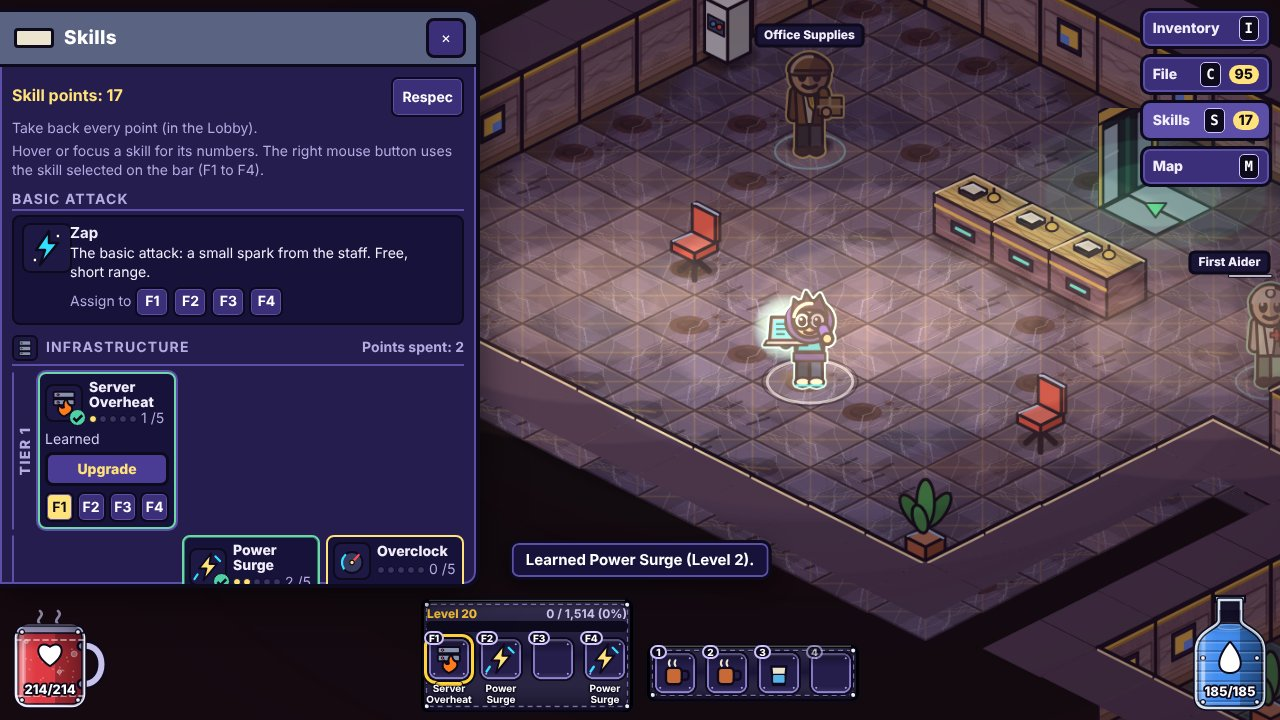
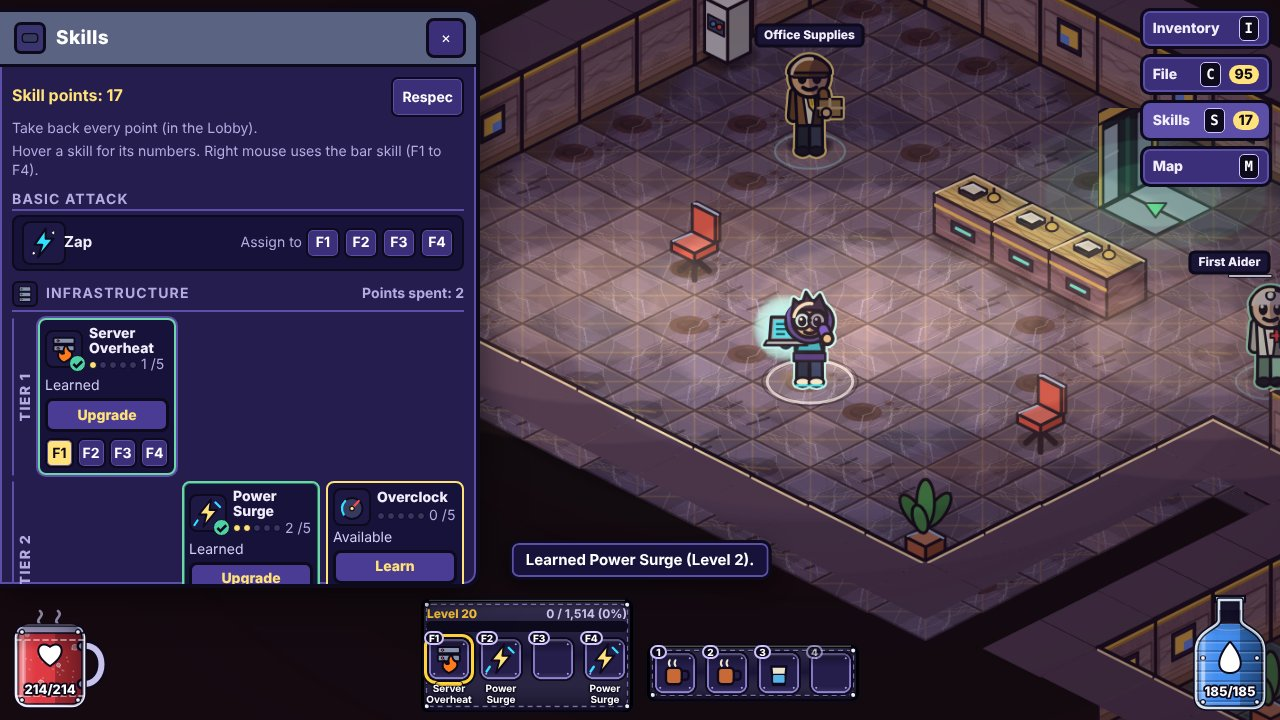
office-crawler: WORLD-FIX (G3) in-game fixes F1-F4, FM face, skill VFX, loot-plate perf
Claude-Session: https://claude.ai/code/session_015ZMPDA2f9SmuN7Nc91jqdv

diff --git a/test/render-g3.test.js b/test/render-g3.test.js
@@ -1,0 +1,84 @@
+// WORLD-FIX (round G3): loot tags keep off the hero and bodies and off each other (F1, F4), the loot layer reuses its records (CR-14),
+// and a nameplate leader line never runs through a body (F3). Pure: stubbed canvas, no pixels, no timing.
+import test from "node:test";
+import assert from "node:assert/strict";
+import { createFx } from "../src/render/fx.js";
+import { lineCrossesBody } from "../src/render/labels.js";
+import { palette } from "../src/render/styles/vector/palette.js";
+
+const ctx = () => new Proxy({}, { get: (_, k) => (k === "canvas" ? {} : k === "measureText" ? (t) => ({ width: String(t).length * 7 }) : k === "createLinearGradient" ? () => ({ addColorStop() {} }) : () => undefined), set: () => true });
+const withDom = (fn) => {
+  const d = globalThis.document, w = globalThis.window;
+  globalThis.document = { createElement: () => ({ width: 0, height: 0, getContext: () => ctx() }) };
+  globalThis.window = { devicePixelRatio: 1 };
+  try { return fn(); } finally { if (d === undefined) delete globalThis.document; else globalThis.document = d; if (w === undefined) delete globalThis.window; else globalThis.window = w; }
+};
+const hit = (a, b) => a.x < b.x + b.w && b.x < a.x + a.w && a.y < b.y + b.h && b.y < a.y + a.h;
+
+function scene() {
+  const style = { palette, dims: { "facilities-manager": { head: 66, shadowR: 17 }, "zombie-intern": { head: 50 } } };
+  const fx = createFx(style);
+  fx.heroType = "facilities-manager";
+  const cam = { w: 1280, h: 720, z: 1.8, ox: 640, oy: 380 - 21 * 16 * 1.8 };
+  fx.heroS = { x: 640, y: 380 };
+  const tiles = [[10, 10], [11, 10], [10, 11], [9, 10], [11, 11], [12, 10], [10, 12], [9, 9]];
+  const rar = ["unique", "rare", "rare", "magic", "magic", "rare", "unique", "magic"];
+  const groundItems = tiles.map(([x, y], i) => ({ id: "g" + i, tile: { x, y }, rarity: rar[i], label: ["Mandatory Reorg", "Padded Cardigan of the Hazmat Drill", "Alert Visor Cap of the Gym Rat", "Hard Hat of the Sprinkler", "Pink Slip", "Final Audit", "Offsite Quota", "Visor Cap of the Marathon"][i], border: "single" }));
+  const core = { player: { tile: { x: 10, y: 10 } }, groundItems };
+  fx.bodies = [{ id: "m1", type: "zombie-intern", sx: 700, sy: 360, dead: false, hid: false }, { id: "m2", type: "zombie-intern", sx: 560, sy: 400, dead: false, hid: false }];
+  const frame = () => { const g = ctx(); fx.drawLoot(g, cam, core, 1000); fx.drawLootPlates(g, cam, core, 1000); return fx.platesPlaced.map((r) => ({ x: r.x, y: r.y, w: r.w, h: r.h })); };
+  return { fx, cam, core, frame };
+}
+
+test("F1 / F4: loot tags never touch the hero's drawn body, an enemy body, or each other", () => withDom(() => {
+  const { fx, cam, frame } = scene();
+  const hero = fx.heroS, hh = (66 + 6) * cam.z, heroRect = { x: hero.x - 27 * cam.z, y: hero.y - hh, w: 54 * cam.z, h: hh + 5 * cam.z };
+  const rects = frame().slice(1);
+  assert.ok(rects.length >= 3, "several tags are placed in a pile of eight drops");
+  for (const r of rects) assert.ok(!hit(r, heroRect), `tag ${JSON.stringify(r)} covers the hero`);
+  for (let i = 0; i < rects.length; i++) for (let j = i + 1; j < rects.length; j++) {
+    const a = rects[i], b = rects[j], gx = Math.max(b.x - (a.x + a.w), a.x - (b.x + b.w)), gy = Math.max(b.y - (a.y + a.h), a.y - (b.y + b.h));
+    assert.ok(Math.max(gx, gy) >= 5, `tags ${i} and ${j} abut (gap ${Math.max(gx, gy)})`);
+  }
+}));
+
+test("F1: the hero keep-out follows the drawn hero position, not the logical tile", () => withDom(() => {
+  const { fx, cam, frame } = scene();
+  fx.heroS = { x: 760, y: 380 }; // the drawn hero is one step to the right of the tile
+  const hh = (66 + 6) * cam.z, heroRect = { x: 760 - 27 * cam.z, y: 380 - hh, w: 54 * cam.z, h: hh + 5 * cam.z };
+  for (const r of frame().slice(1)) assert.ok(!hit(r, heroRect), "tag on the moved hero");
+}));
+
+test("CR-14: a steady frame reuses the loot records, both orders and the plate rects (no re-sort, no new objects)", () => withDom(() => {
+  const { fx, frame } = scene();
+  frame();
+  const lt = fx.lt, order = lt.order, prio = lt.prio, e0 = lt.order[0], pool = lt.pool.slice(), pp = lt.pp.slice(), placed0 = fx.platesPlaced.slice(1);
+  let sorts = 0; const sort = Array.prototype.sort; Array.prototype.sort = function (...a) { sorts++; return sort.apply(this, a); };
+  try { frame(); frame(); } finally { Array.prototype.sort = sort; }
+  assert.equal(sorts, 0, "no sort while the set and the hero tile are unchanged");
+  assert.equal(lt.order, order); assert.equal(lt.prio, prio); assert.equal(lt.order[0], e0);
+  assert.deepEqual(lt.pool, pool); assert.deepEqual(lt.pp, pp);
+  fx.platesPlaced.slice(1).forEach((r, i) => assert.equal(r, placed0[i], "plate rect objects are reused"));
+}));
+
+test("CR-14: a new drop or a hero step rebuilds the orders once; a pick-up shrinks them", () => withDom(() => {
+  const { fx, core, frame } = scene();
+  frame();
+  const n = core.groundItems.length;
+  core.groundItems.push({ id: "extra", tile: { x: 13, y: 13 }, rarity: "rare", label: "Extra", border: "single" });
+  frame(); assert.equal(fx.lt.order.length, n + 1);
+  core.player.tile = { x: 11, y: 11 }; frame();
+  assert.equal(fx.lt.order[0].d, Math.min(...fx.lt.order.map((e) => e.d)), "nearest first after the hero moved");
+  core.groundItems.length = 2; frame(); assert.equal(fx.lt.order.length, 2); assert.equal(fx.lt.prio.length, 2);
+}));
+
+test("F3: a leader line through another actor's body (or the hero) is detected; a clear line and the owner's own body are not", () => {
+  const style = { dims: { x: { head: 50 } } }, cam = { z: 1 };
+  const actors = [{ id: "a", type: "x", sx: 100, sy: 200, dead: false }, { id: "b", type: "x", sx: 300, sy: 200, dead: false }];
+  const hero = { x: 500, y: 150, w: 50, h: 64 };
+  assert.equal(lineCrossesBody(100, 100, 100, 190, actors, actors[1], cam, style, hero), true, "line down through a");
+  assert.equal(lineCrossesBody(100, 100, 100, 190, actors, actors[0], cam, style, hero), false, "a's own body is skipped");
+  assert.equal(lineCrossesBody(200, 100, 200, 190, actors, actors[0], cam, style, hero), false, "clear between the two");
+  assert.equal(lineCrossesBody(520, 100, 520, 180, actors, actors[0], cam, style, hero), true, "through the hero");
+  assert.equal(lineCrossesBody(300, 100, 300, 190, [{ ...actors[1], dead: true }], null, cam, style, hero), false, "dead bodies do not count");
+});

diff --git a/test/ui-escape.test.js b/test/ui-escape.test.js
@@ -1,0 +1,71 @@
+// CR-02 (blocking): every id and name that can come from a save file or an imported character must reach markup escaped.
+// The builders are pure strings, so the test feeds them hostile values and parses the result attribute by attribute.
+import { test } from "node:test";
+import assert from "node:assert/strict";
+import { readFileSync } from "node:fs";
+import { itemBoxHtml, rowItemHtml, nameLineHtml } from "../src/ui/panels.js";
+import { nodeTipHtml, rowsHtml } from "../src/ui/tree.js";
+import { T } from "../src/ui/text.js";
+
+const HOSTILE = [`x" onmouseover="alert(1)`, `x' onfocus='alert(1)`, `"><img src=x onerror=alert(1)>`, `</li><script>alert(1)</script>`, `a&quot;b`];
+
+/** Tokenise every start tag; returns [{tag, attrs: Map}] and fails when a tag does not parse cleanly (a breakout shows up as an odd attribute). */
+function tags(html) {
+  const out = [];
+  for (const m of html.matchAll(/<([a-zA-Z][\w-]*)((?:\s+[\w:-]+(?:="[^"]*")?)*)\s*\/?>/g)) {
+    const attrs = new Map();
+    for (const a of m[2].matchAll(/\s+([\w:-]+)(?:="([^"]*)")?/g)) attrs.set(a[1], a[2] ?? "");
+    out.push({ tag: m[1], attrs });
+  }
+  // any "<" that is not the start of a tag we parsed (or a closing tag) means the markup was broken open
+  const stray = html.replace(/<\/[a-zA-Z][\w-]*>/g, "").replace(/<([a-zA-Z][\w-]*)((?:\s+[\w:-]+(?:="[^"]*")?)*)\s*\/?>/g, "").match(/<[^<>]*$|<(?![^<>]*>)/);
+  assert.equal(stray, null, `stray markup in ${html.slice(0, 200)}`);
+  return out;
+}
+const decode = (v) => v.replace(/&quot;/g, '"').replace(/&#39;/g, "'").replace(/&lt;/g, "<").replace(/&gt;/g, ">").replace(/&amp;/g, "&");
+const noHandlers = (html) => { for (const t of tags(html)) for (const k of t.attrs.keys()) assert.ok(!/^on/i.test(k), `event attribute ${k} in <${t.tag}>`); assert.ok(!/<script/i.test(html)); assert.ok(!/<img/i.test(html)); };
+
+test("a hostile item id cannot leave its attribute (data-tip, data-item, sell and stash buttons)", () => {
+  for (const id of HOSTILE) {
+    const it = { id, name: `Name ${id}`, rarity: "magic", base: "stapler", w: 1, h: 2 };
+    const row = rowItemHtml(it, `inv:${id}`, "", `main ${id}`);
+    const rowTags = tags(row);
+    const li = rowTags.find((t) => t.tag === "li");
+    assert.equal(decode(li.attrs.get("data-tip")), `inv:${id}`, "the tip key round-trips as one attribute value");
+    assert.deepEqual([...li.attrs.keys()], ["class", "data-tip"], "no extra attributes on the row");
+    noHandlers(row);
+    const box = itemBoxHtml(it, { pos: { x: 1, y: 2 }, cls: "dim origin" });
+    noHandlers(box);
+    assert.equal(decode(tags(box).find((t) => t.tag === "span").attrs.get("data-item")), id);
+    noHandlers(nameLineHtml(it));
+  }
+});
+
+test("hostile rarity and numbers are neutralised too (they come from the same save file)", () => {
+  const it = { id: "ok", name: "n", rarity: `rare" onmouseover="alert(1)`, base: "stapler", w: `1" onclick="x`, h: "2;background:url(x)" };
+  const html = rowItemHtml(it, "stash:ok", "", "") + itemBoxHtml(it, { pos: { x: `1" onclick="x`, y: 0 } });
+  noHandlers(html);
+});
+
+test("skill tree tooltips escape values and names", () => {
+  const n = { name: `<b onmouseover=alert(1)>N</b>`, kind: "active", tier: 1, level: 1, maxLevel: 5, bonus: 0, signature: false, textKey: "x", cost: { mana: 3 }, now: [{ labelKey: "statDamage", value: `<i>1</i>` }], next: [], requires: [{ met: false, name: `"><script>`, level: 1 }], reqLevel: 1, lockReason: `<u>locked</u>` };
+  const html = nodeTipHtml(n);
+  assert.ok(!/<b onmouse|<i>|<script|<u>/.test(html), html);
+  assert.ok(!rowsHtml([{ labelKey: "statDamage", value: "<i>1</i>", type: `x" onmouseover="y` }]).includes('" onmouseover="'));
+});
+
+test("static audit: every id interpolated into panels.js and tree.js markup goes through esc()", () => {
+  for (const f of ["panels.js", "tree.js"]) {
+    const src = readFileSync(new URL(`../src/ui/${f}`, import.meta.url), "utf8");
+    const bare = [...src.matchAll(/(?<!inv:|stash:)\$\{(?!esc\()([A-Za-z_.]*\.(?:id|name|base|rarity|class))\}/g)].map((m) => m[1]);
+    // `inv:${it.id}` and `stash:${it.id}` are tip keys handed to rowItemHtml, which escapes them (tested above). `${it.name}` is allowed in aria-label strings that are passed through esc() as a whole (itemLabel) and in plain-text template literals
+    const risky = bare.filter((x) => /\.id$/.test(x));
+    assert.deepEqual(risky, [], `${f}: unescaped id interpolations`);
+  }
+});
+
+test("every save notice key of the contract has a text", () => {
+  for (const k of ["no-active-slot", "pre-switch-save-failed", "migration-failed", "generic"]) assert.ok(T.notices[k]?.length > 10, k);
+  for (const k of ["svMemory", "svTakeOver", "svTakeTitle", "svTakeYes", "svDismiss", "slLoadTitle", "slLoadText"]) assert.ok(T[k]?.length > 3, k);
+  assert.equal(T.svMemory, "Saving is off in this browser");
+});

diff --git a/src/ui/panels.js b/src/ui/panels.js
@@ -20,6 +20,15 @@ const SLOT_LABEL = { head: T.slotHead, amulet: T.slotAmulet, weapon: T.slotWeapo
 const DOLL = { head: [3, 1, 2, 2], amulet: [5, 1, 1, 1], weapon: [1, 2, 2, 3], body: [3, 3, 2, 3], offhand: [6, 2, 2, 3], hands: [1, 5, 2, 2], belt: [3, 6, 2, 1], feet: [6, 5, 2, 2], ring1: [5, 5, 1, 1], ring2: [5, 6, 1, 1] };
 const ATTR_HINT = { grit: T.raisesDamage, agility: T.raisesDefense, stamina: T.raisesHealth, focus: T.raisesMana };
 const RESISTS = [["fire", T.resistFire], ["cold", T.resistCold], ["shock", T.resistShock], ["acid", T.resistAcid]];
+// ---- pure markup builders (exported so a unit test can feed them hostile ids and names, CR-02) ----
+export const escHtml = esc;
+export const nameLineHtml = (it, size = 13) => `<span class="l-${esc(it.rarity)}">${rarityMark(it.rarity, size)} ${esc(it.name)}</span>`;
+export function itemBoxHtml(it, { fill = false, pos = null, cls = "", unmet = false } = {}) {
+  const warn = unmet ? '<span class="warn" aria-hidden="true">!</span>' : "";
+  const style = pos ? ` style="--x:${Number(pos.x) || 0};--y:${Number(pos.y) || 0};--w:${Number(it.w) || 1};--h:${Number(it.h) || 1}"` : "";
+  return `<span class="item r-${esc(it.rarity)}${fill ? " fill" : ""}${cls ? " " + esc(cls) : ""}" data-item="${esc(it.id)}"${style}>${itemIcon(it)}<span class="rm">${rarityMark(it.rarity, 11)}</span>${warn}</span>`;
+}
+export const rowItemHtml = (it, tipKey, right, mainText = "") => `<li class="row" data-tip="${esc(tipKey)}"><span class="ricon" style="--rw:${Number(it.w) || 1};--rh:${Number(it.h) || 1}">${itemIcon(it)}</span><span class="rname">${nameLineHtml(it, 14)}<small>${esc(mainText)}</small></span>${right}</li>`;
 const num = (n) => Number(n).toLocaleString("en-US");
 
 export function createPanels(root, game) {
@@ -57,12 +66,8 @@ export function createPanels(root, game) {
   const itemLabel = (it) => `${it.name}, ${rarityName(it.rarity)}, ${it.w} by ${it.h} ${T.cells}${unmetOf(it) ? `, ${T.msgReqs.toLowerCase()}` : ""}`;
 
   // ------------------------------------------------------------ item markup
-  const itemBox = (it, { fill = false, pos = null, cls = "" } = {}) => {
-    const warn = unmetOf(it) ? '<span class="warn" aria-hidden="true">!</span>' : "";
-    const style = pos ? ` style="--x:${Number(pos.x) || 0};--y:${Number(pos.y) || 0};--w:${Number(it.w) || 1};--h:${Number(it.h) || 1}"` : "";
-    return `<span class="item r-${esc(it.rarity)}${fill ? " fill" : ""}${cls ? " " + cls : ""}" data-item="${esc(it.id)}"${style}>${itemIcon(it)}<span class="rm">${rarityMark(it.rarity, 11)}</span>${warn}</span>`;
-  };
-  const nameLine = (it, size = 13) => `<span class="l-${esc(it.rarity)}">${rarityMark(it.rarity, size)} ${esc(it.name)}</span>`;
+  const itemBox = (it, o = {}) => itemBoxHtml(it, { ...o, unmet: !!unmetOf(it) });
+  const nameLine = nameLineHtml;
   const legend = () => `<ul class="legend" aria-label="${esc(T.rarityKey)}"><li class="lh">${esc(T.rarityKey)}</li>${["normal", "magic", "rare", "unique"].map((r) =>
     `<li class="l-${r}"><span class="swatch r-${r}"></span>${rarityMark(r, 14)}<span>${esc(rarityName(r))}</span></li>`).join("")}</ul>`;
 
@@ -125,7 +130,7 @@ export function createPanels(root, game) {
   const renderSkills = (c) => renderTree(c).replace("@TABS@", tabsHtml("skills"));
 
   // ------------------------------------------------------------ NPC windows
-  const rowItem = (it, tipKey, right) => `<li class="row" data-tip="${esc(tipKey)}"><span class="ricon" style="--rw:${Number(it.w) || 1};--rh:${Number(it.h) || 1}">${itemIcon(it)}</span><span class="rname">${nameLine(it, 14)}<small>${esc(describeItem(it, core().player).main[0]?.text ?? "")}</small></span>${right}</li>`;
+  const rowItem = (it, tipKey, right) => rowItemHtml(it, tipKey, right, describeItem(it, core().player).main[0]?.text ?? "");
   function renderNpc(c) {
     const d = c.ui.dialog;
     if (!d) return "";

diff --git a/src/main.js b/src/main.js
@@ -161,9 +161,11 @@ async function boot() {
   const ensureActive = () => { if (game.core && resume !== null && store.activeSlot() === null) store.setActive(resume); };
   setInterval(() => { if (game.core && !game.error) store.heartbeat(); }, config.ownerBeatMs); // while a game runs this tab keeps the owner lock fresh
   bus.on("autosave", (ev) => { if (game.core) { ensureActive(); const r = store.autosave(game.core, ev); if (r.ok && !r.skipped) game.refreshSlots(); } });
-  const flush = () => { if (game.core && !game.error && game.core.scene !== "error") { ensureActive(); store.autosave(game.core, {}, { force: true }); game.refreshSlots(); } };
-  addEventListener("pagehide", () => { flush(); resume = store.activeSlot() ?? resume; store.clearActive(); });
-  document.addEventListener("visibilitychange", () => { if (document.visibilityState === "visible") { ensureActive(); if (game.core) store.heartbeat(); } if (document.visibilityState === "hidden") flush(); audio.setVisible(document.visibilityState !== "hidden"); });
+  let released = false; // pagehide gave the saves up: the visibilitychange that follows it must not take them back (the next page load would see a live owner)
+  const flush = () => { if (released) return; if (game.core && !game.error && game.core.scene !== "error") { ensureActive(); store.autosave(game.core, {}, { force: true }); game.refreshSlots(); } };
+  addEventListener("pagehide", () => { flush(); resume = store.activeSlot() ?? resume; store.clearActive(); released = true; });
+  addEventListener("pageshow", () => { if (!released) return; released = false; ensureActive(); if (game.core) store.heartbeat(); }); // back from the bfcache: play on
+  document.addEventListener("visibilitychange", () => { if (document.visibilityState === "visible" && !released) { ensureActive(); if (game.core) store.heartbeat(); } if (document.visibilityState === "hidden") flush(); audio.setVisible(document.visibilityState !== "hidden"); });
   // Leaving a session (Quit to title, game over, victory) saves first: Continue must show what the player just did.
   const saveAndQuit = () => { flush(); resume = null; store.clearActive(); game.toTitle(); };
   const shell = { download, session: (cmd) => game.session(cmd), slots: () => game.slots, active: () => store.activeSlot(), adapter: store.adapter, playing: () => !!game.core };

diff --git a/test/ui-r5.test.js b/test/ui-r5.test.js
@@ -4,7 +4,7 @@ import assert from "node:assert/strict";
 import { content, newGame, treeView, classCards, setLevel, skillTrees } from "../src/core/index.js";
 import { skillIcon } from "../src/ui/icons.js";
 import { nodeTipHtml, rowsHtml } from "../src/ui/tree.js";
-import { fmtPlay, fmtWhen, errorText, slotSummary } from "../src/ui/slots.js";
+import { fmtPlay, fmtWhen, fmtStamp, errorText, slotSummary } from "../src/ui/slots.js";
 import { T } from "../src/ui/text.js";
 
 test("every skill, branch and class of the R4 contract has an icon", () => {
@@ -42,8 +42,14 @@ test("slot list formatting: play time h:mm, relative last played, error texts fo
   assert.equal(fmtWhen(now - 5000, now), "just now"); assert.equal(fmtWhen(now - 5 * 60000, now), "5 min ago"); assert.equal(fmtWhen(now - 3 * 3600000, now), "3 h ago");
   assert.equal(fmtWhen(NaN, now), "");
   for (const e of ["bad-name", "bad-slot", "empty-slot", "occupied", "confirm-required", "corrupt", "newer", "quota", "too-large", "write-failed", "another-tab", "playing", "no-storage", "bad-class"]) assert.ok(errorText(e).length > 5, e);
-  assert.match(slotSummary({ class: "it-wizard", level: 9, depth: 0, playSec: 600 }), /IT Wizard · Level 9 · Lobby · 0:10 played/);
-  assert.match(slotSummary({ class: "sales-rep", level: 3, depth: 4, playSec: 0 }), /Floor 4/);
+  // CR-12: the card shows the DEEPEST floor (contract field `deepest`), not where the character stands, and date plus time of the last save
+  assert.match(slotSummary({ class: "it-wizard", level: 9, depth: 0, deepest: 0, playSec: 600 }), /IT Wizard · Level 9 · Deepest: Lobby · 0:10 played/);
+  assert.match(slotSummary({ class: "sales-rep", level: 3, depth: 1, deepest: 4, playSec: 0 }), /Deepest floor 4/);
+  assert.doesNotMatch(slotSummary({ class: "sales-rep", level: 3, depth: 1, deepest: 4, playSec: 0 }), /Floor 1/);
+  const iso = "2026-10-14T09:41:00.000Z", st = fmtStamp({ savedAt: iso });
+  assert.match(st, /2026/); assert.match(st, /\d{1,2}[:.]\d{2}/, "has a time");
+  assert.equal(fmtStamp({ lastPlayed: Date.parse(iso) }), st, "the older lastPlayed field gives the same stamp");
+  assert.equal(fmtStamp({}), ""); assert.equal(fmtStamp({ savedAt: "not a date" }), "");
 });
 
 test("R5 UI strings: every respec and learn error code has a message", () => {

diff --git a/src/style.css b/src/style.css
@@ -445,7 +445,7 @@ html.hc .opt-val, html.hc .screen.options .hint, html.hc .hint, html.hc .seed, h
 .sl-head .xbtn { margin-left: auto; width: 44px; height: 44px; border-radius: 8px; border: 3px solid #0d0a1c; background: #3a2f78; font: 900 22px/1 inherit; color: #fff; padding: 0; cursor: pointer; }
 .sl-view .sl-h { margin: 0; font-size: 15px; }
 .sl-intro { margin: 0 0 8px; font-size: 14px; color: #c9c2e8; }
-.sl-msg { margin: 0 0 8px; min-height: 20px; font-weight: 800; color: #ffe27a; font-size: 14px; }
+.sl-msg { margin: 0 0 6px; min-height: 0; font-weight: 800; color: #ffe27a; font-size: 14px; }
 .sl-list { list-style: none; margin: 0 0 12px; padding: 0; display: grid; gap: 8px; }
 .sl-card { display: grid; grid-template-columns: 62px 1fr; gap: 6px 12px; align-items: center; padding: 8px; border-radius: 10px; background: #120e29; border: 2px solid #3d3068; --acc: #5b4f98; }
 .sl-card.ok { border-color: color-mix(in srgb, var(--acc) 55%, #3d3068); }
@@ -565,3 +565,11 @@ html.hc .tnode { border-color: #fff; }
   .sl-list { gap: 6px; margin-bottom: 8px; }
   .sl-head { padding: 2px 0 2px; }
 }
+
+@media (min-width: 760px) {
+  .dlg-card { width: min(780px, 100%); }
+  .sl-card.ok { grid-template-columns: 62px minmax(0, 1fr) auto; }
+  .sl-card.ok .sl-acts { grid-column: auto; display: grid; grid-template-columns: repeat(3, auto); justify-content: end; gap: 4px; }
+  .sl-card.ok .sl-acts .mini, .sl-card.ok .sl-acts .btn.small { min-height: 34px; padding: 3px 10px; }
+}
+@media (max-width: 760px) { .tree .srow .sassign > span { display: none; } .tree .srow .sassign { gap: 4px; } }

diff --git a/src/render/labels.js b/src/render/labels.js
@@ -21,7 +21,7 @@ function onSprite(r, actors, self, cam, style) {
   return false;
 }
 /** True when the leader line (x1,y1)-(x2,y2) passes through the body of an actor other than `self` (or the hero rect). Sampled; lines are short. */
-function lineCrossesBody(x1, y1, x2, y2, actors, self, cam, style, heroR) {
+export function lineCrossesBody(x1, y1, x2, y2, actors, self, cam, style, heroR) {
   const z = cam.z;
   for (let k = 1; k <= 12; k++) {
     const t = k / 12, x = x1 + (x2 - x1) * t, y = y1 + (y2 - y1) * t;

diff --git a/docs/product/decisions/ADR-0006-save-slots.md b/docs/product/decisions/ADR-0006-save-slots.md
@@ -108,3 +108,16 @@ A slot that fails validation (parse, checksum, schema, size) becomes `state: bad
 ## Questions for the customer (L-05)
 
 None block the design. Two UX defaults are stated for the customer to overrule: (1) the soft one-tab lock shows a read-only message in the second tab; (2) Delete keeps one undo copy of the slot until the next write there ("Delete forever" in the dialog clears it). Both are UI wording and flow, owned by the customer or the proxy.
+
+## Amendment 2026-10-14 (R5 fix round: owner lock, migration, schema)
+
+Source: code review CR-01..CR-13 and adversarial findings ADV-R5-01..10 (`docs/reviews/R4-R5-G-code-review.md`, `docs/reviews/R5-adversarial.md`). Where this section differs from the text above, this section wins.
+
+1. **Owner lock with a heartbeat (replaces the permanent tab lock of section 6).** The index field `owner` is `{ id, beat }` (`beat` = epoch ms from the injected clock), no longer a bare tab id. The playing tab refreshes `beat` on every write of its active slot and from a timer every `config.ownerBeatMs` (5 s) while a game runs (`store.heartbeat()`, main.js). An owner whose `beat` is older than `config.ownerStaleMs` (**15 s**, i.e. three missed beats) is *stale*. Decision table for a write by tab T: no owner or T owns it, write; a live owner that is not T, refuse with `another-tab`; a stale owner, write (and take over) only if T started after the stale beat, otherwise `another-tab`. `takeOverSaves` makes T the owner on the player's explicit confirmation. A bare string owner left by an older build reads as `{ id, beat: 0 }`, i.e. stale. The tab id is a fresh `crypto.randomUUID()` per page load and is never kept in `sessionStorage` (a duplicated tab copies sessionStorage and would share the id); `pagehide` still releases the owner, so a reload does not need to keep it. `status.owner` is `none | self | other | stale`. Residual risk: a background tab whose timers are throttled beyond 15 s looks stale; a tab that started later may then take over and the first tab's next write is refused (`another-tab`), never interleaved.
+2. **Ids that reach markup are restricted in the schema.** Item, affix and unique ids, item `slot`/`effect`/`restores`, requirement keys and `uniquesFound` entries must match `/^[A-Za-z0-9_-]{1,32}$/`; a save with any other value is rejected on load and import (CR-02). Escaping at the UI sinks stays the UI's job; this is defence in depth.
+3. **Skills are validated against the rules (CR-03, ADV-R5-04).** Every learned skill is of the class, at level 1 or more, within `reqLevel` and its prerequisites; points spent (the signature's first level is free) plus `skillPoints` may not exceed `(level - 1) * skillPointsPerLevel`; `primary` must be the class's basic attack, `hotkeys` and `secondary` are `null` or a learned active/aura skill of the class; `secondary` is re-derived from `hotkeys[selected]` on load.
+4. **Options are not part of a slot (CR-04).** `toSave` writes `options: {}`; on import and load any stored options are dropped (the checksum is verified first, callers re-seal).
+5. **Switching characters never loses progress silently (CR-05, CR-06).** The running game is saved before `loadSlot` / `createCharacter` replaces it, also when it is the slot being loaded. If that save fails the switch is aborted (`save-failed-before-switch`, `reason` = the store error) and `status.notice = "pre-switch-save-failed"`.
+6. **Persistent status for the UI.** `slotsView` carries `status { storage: ok | memory | full, owner, notice }`. Notices: `no-active-slot` (autosave with no active slot, also toasted once, CR-07), `pre-switch-save-failed`, `migration-failed`; any successful write clears the first two, `dismissSaveNotice` clears all. `storage: "memory"` means localStorage is blocked and nothing persists (ADV-R5-06). Slot summaries gain `deepest`, `savedAt` (ISO UTC) and `hasPrev`.
+7. **Migration (replaces section 5 step 1 to 3 where they differ; CR-08, ADV-R5-01).** A missing or invalid index is rebuilt from the slot keys *before* any decision. The legacy save fills slot 1 only when slot 1 is empty; a played slot 1 is never replaced (the legacy keys remain the backup). If the slot write fails the index is still stored with `pendingMigration: true` (slots 2 to 5 stay visible), `status.notice = "migration-failed"`, and the next boot retries; the flag is removed on success. A later delete of slot 1 does not resurrect the legacy save (it runs only without an index or with the flag).
+8. **Smaller rules.** `rename` honours the owner lock (CR-09). Creating over or importing over a damaged slot keeps its text in `.bad` (exportable) instead of deleting it. `restorePrev` refuses `newer` slots and any non-empty slot (ADV-R5-03). The core accepts `setName` while paused or dead (whitelisted before the paused/live gates), so the shell no longer flips `paused` (CR-10). Names may contain combining marks `\p{M}` but not start with one (ADV-R5-10). A new character's `xpNext` is `xpTable[1]` (ADV-R5-05). The old single-slot `createSaveStore` is removed; its acceptance tests run against the slot store (CR-11). The storage total is a running sum, rescanned when the number of own keys changes, on a failed write and on `usage({ exact: true })` (CR-13).

diff --git a/docs/reviews/R5-uifix-progress.md b/docs/reviews/R5-uifix-progress.md
@@ -1,1 +1,6 @@
 done: CR-02 escapes in panels.js/tree.js; slots.js focus/trap/return, load confirm, deepest+date/time, no adapter; savestatus.js (banner, notice, take over); elevator Esc cancels the start (pending transition cancelled on screen destroy); next: tests, CSS, visual fixes, e2e updates, screenshots
+done: visual F9 (real panel icons), F10 (confidential label moved), F11/F12 (header grid, 4-line branch clamp, hint keeps its space), disabled Start fill, slots fit at 720, tree help shortened and Strike one row; next: unit tests, e2e updates, run suites
+decision ADV-R5-11 (AC-R-214-1): Esc during the elevator doors CANCELS the start. screens.playTransition returns { cancel }; the class screen keeps it as `pending` and cancels it in destroy(). The shell's Esc closes the screen (game.closeCreate), destroy runs, the pending timeout is cleared and the doors are removed: no character is created and the title is shown. Once the doors have closed and createCharacter ran, cancel() is a no-op.
+decision ADV-R5-08: Load of another slot while a game is running opens a confirmation (slot-load-confirm-*) naming the loaded and the running character; Cancel keeps the game.
+decision CR-15: the UI no longer reads the adapter. Undo (delete and replace) uses { t: "restoreSlot" } (the one .prev copy); the Undo button shows when the entry says hasPrev !== false. Export uses { t: "exportSlot" } and reads fileName (falls back to filename).
+note: ui/savestatus.js reads game.slots.status and guards every field; screenshots inject status through __app.slots.view().status.

diff --git a/docs/reviews/G3-world-progress.md b/docs/reviews/G3-world-progress.md
@@ -1,0 +1,7 @@
+# WORLD-FIX progress (round G, second fix round, G3)
+
+- done: F1 root cause (loot keep-out used the logical hero tile, the sprite is drawn at the interpolated position: tag sat on the hero) -> fx.heroS = drawn hero position (world.js), keep-out rect from hero head height, hero never relaxed; enemy bodies avoided (relaxed only for rare/unique/hovered); next: F4.
+- done: F4 gap 6 px (was 2.5) plus sideways slide past the blocking tag (<= own width + 6); CR-14 loot layer rewritten (reused records/orders/rects, sort only when set or hero tile changes, crowd choice without filter+sort); next: F2.
+- done: F2 actors in a pool are redrawn at 72 % over the additive pass (light.after hook, world.restoreActors), keeps shade + multiply tint; dark suits stay dark, pale actors keep faces; next: F3.
+- done: F3 leader line dropped or plate moved beside the head when the line would cross a body or the hero (labels.js lineCrossesBody); FM face (white eyes, 2.5 px pupils, thin brim); Pallet Slam VFX (flash, thick ink ring, dust clouds, 900 ms). Note: the G2 review pressed Digit1 (belt slot) not F1, and F1 with no hover tile is rejected for area-at-target skills; real cast verified via input {t:"cast"}.
+- done: test/render-g3.test.js (5 tests), shots docs/shots/g3-{before,after}-*, g3-fm-face-1x, g3-skill-f1-fm-1x; e2e render 29/29, replay 5/5, polish 20/20; next: report.

diff --git a/docs/SESSION-NOTES.md b/docs/SESSION-NOTES.md
@@ -165,3 +165,4 @@ Each round also improves the harness (learnings → agent definitions/rules), as
 - 2026-10-14T05:08:46Z ADV-R5 (first adversarial pass ever, E1 data): 4 major, 7 minor, 10 todo tests + 12 XFAIL e2e. Unique vs code review: ADV-01 migrate hides slots, 06 blocked storage silent, 07 dialog focus, 05 xpNext, 08, 10, 11. Next: fix round SAVE-FIX / UI-FIX / WORLD-FIX.
 - 2026-10-14T05:13:00Z Orchestrator re-run after ADV-R5: npm test 606 pass/10 todo, e2e 13/13 OK. Wrote R5-fix-contract.md (status/deepest/savedAt/hasPrev, takeOverSaves/exportSlot/dismissSaveNotice). Launched SAVE-FIX, UI-FIX, WORLD-FIX in parallel.
 - 2026-10-14T05:23:05Z User decision: repos get cleaned up (harness repo + one repo per project) after the first experiment project and its retro. Recorded in harness/STATUS.md.
+- 2026-10-14T05:34:47Z WORLD-FIX done: F1-F4, FM face, Pallet Slam VFX, CR-14 (no per-frame sort). Orchestrator looked at g3 before/after f1-fm crop: wash gone, faces visible, tag off hero. Bench noisy under load → re-run quiet. Note for retro: G2 reviewer pressed Digit1 (potion) not F1 → 'no skill VFX' was a test artefact (candidate learning: reviewers need the input map).

diff --git a/docs/reviews/R5-savefix-progress.md b/docs/reviews/R5-savefix-progress.md
@@ -1,3 +1,5 @@
 done: core fixes (setName whitelist, name marks, xpNext), format.js (safe ids, skill/bar/points, options strip); next: slots.js/session.js rewrite (owner heartbeat, notices, migration, rename, prev), main.js, game.js
 done: slots.js/session.js/main.js/game.js first pass; next: run tests, fix old tests, delete createSaveStore, add tests, ADR amendment
 done: createSaveStore removed + tests ported (save.test, s3-final); next: new tests (save-fix.test.js), ADR amendment, e2e
+done: new tests test/save-fix.test.js (23), npm test 3x green except ui-r5 (UI-FIX file); next: ADR-0006 amendment, build + e2e
+done: ADR-0006 amendment, pagehide/visibility release fix in main.js, e2e hook/replay green; adv-r5 and r5ui reds are caused by script assumptions / UI-FIX work; next: report
